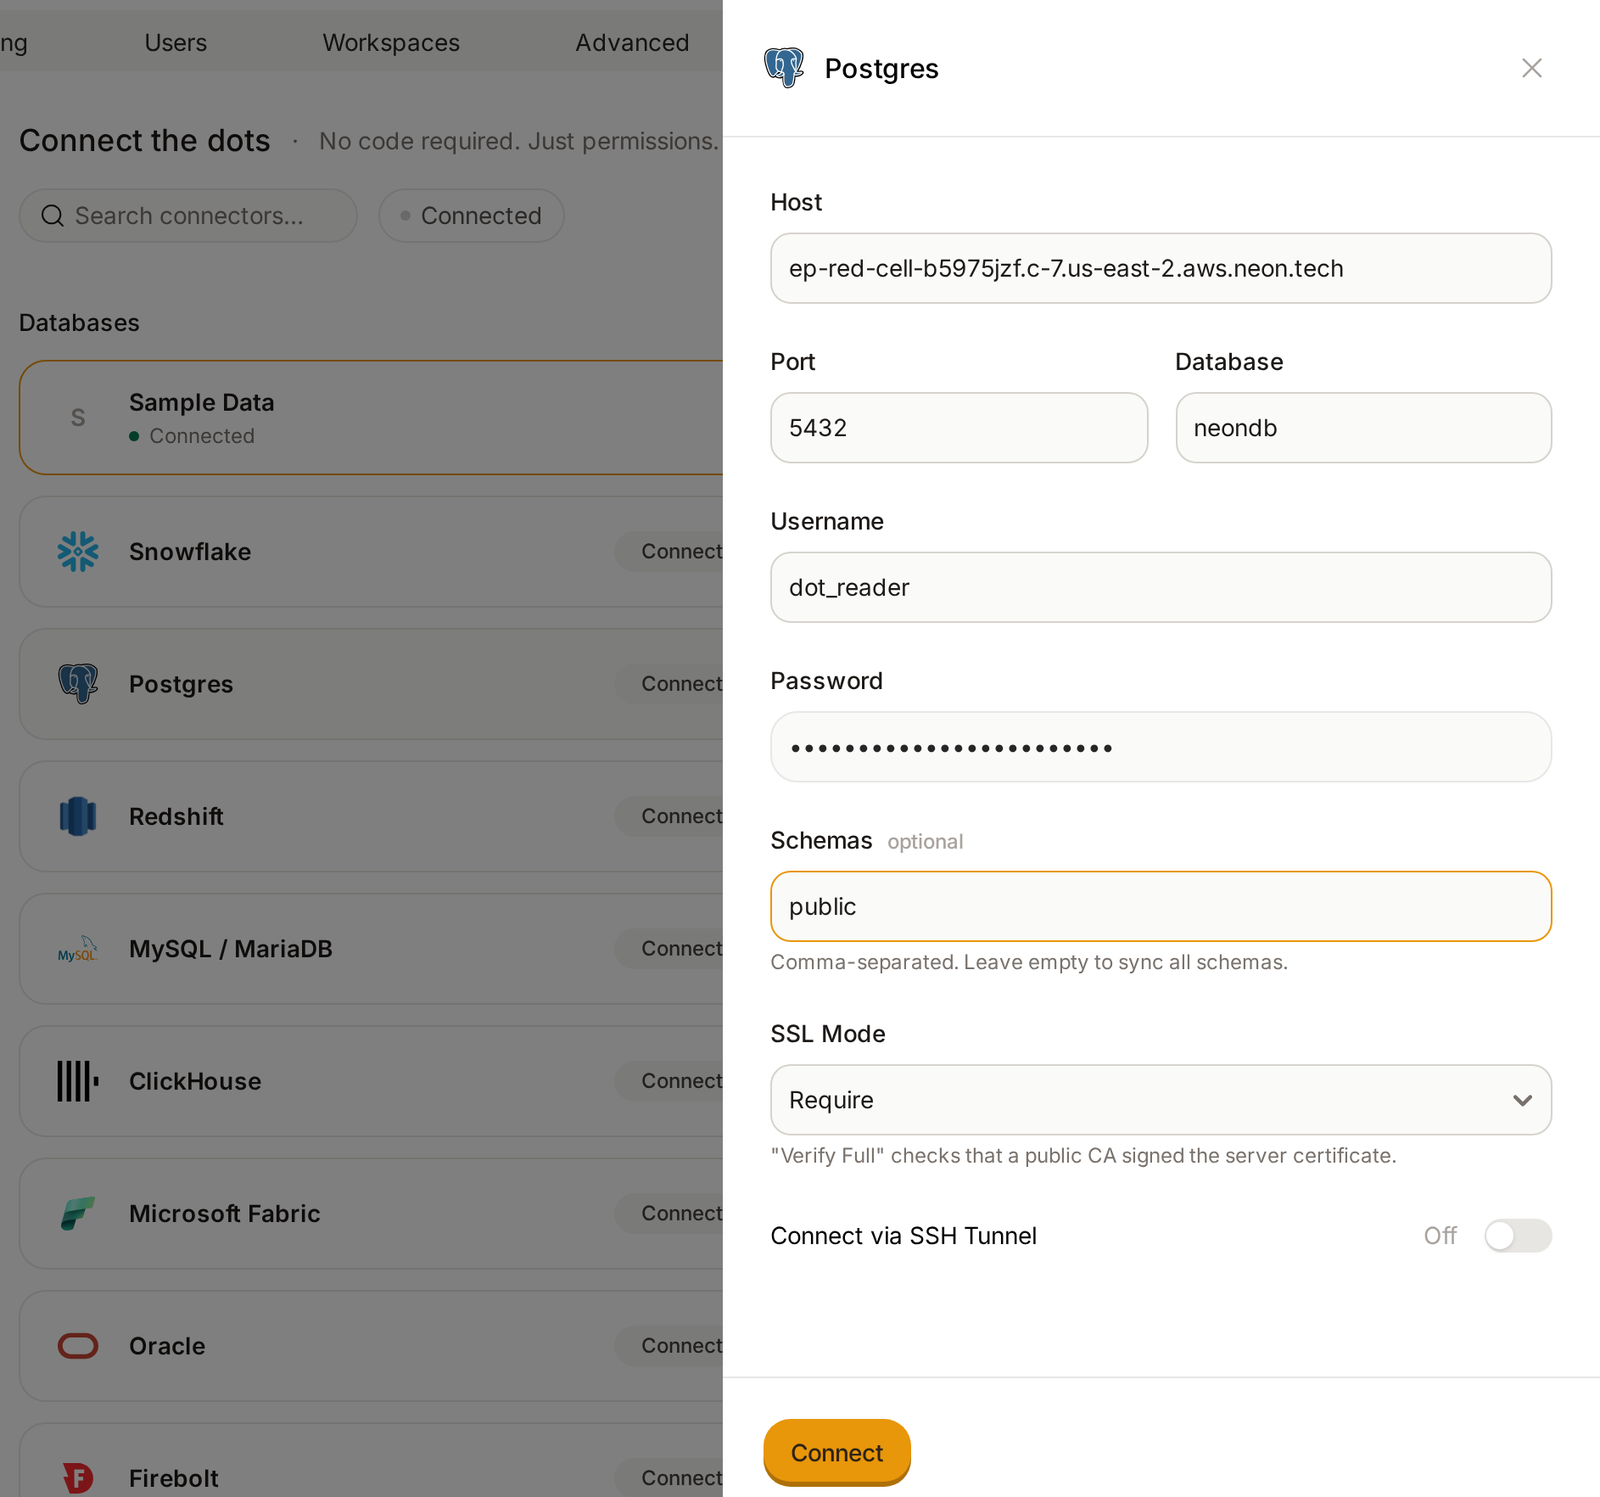
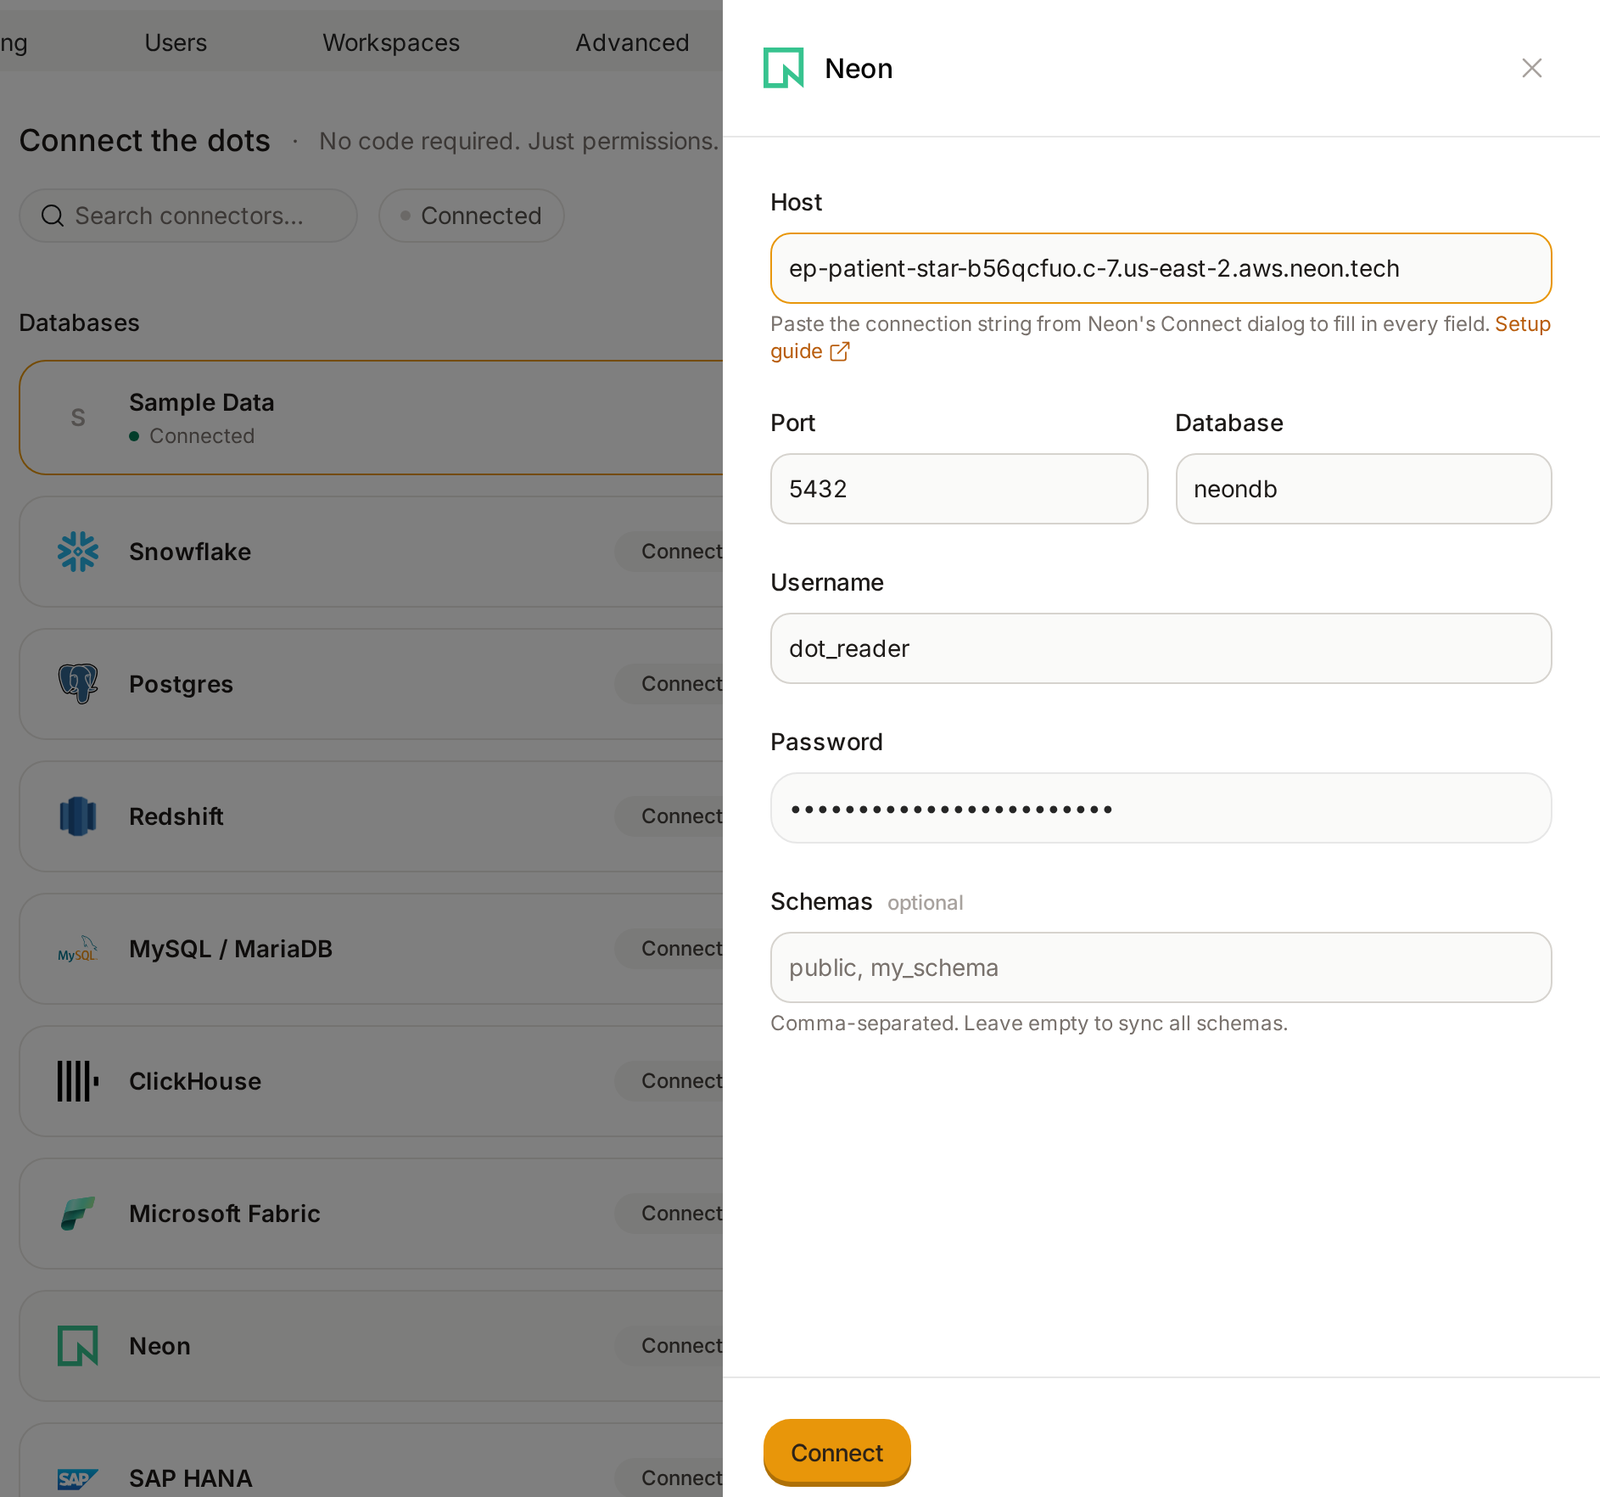
docs: connect Dot through its Neon connection
Dot now has a Neon connection: paste the connection string from
Neon's Connect dialog, pooled or direct, and it fills in the form and
connects to the direct host. Drop the step that turned off connection
pooling, describe the paste, and link the Neon page in Dot's docs.
Retake the connection and Model screenshots, and say which tables Dot
turns on after the first sync.

diff --git a/content/docs/guides/dot.md b/content/docs/guides/dot.md
@@ -5,9 +5,9 @@ summary: >-
   Dot is an AI data analyst that connects to a Lakebase Postgres database and
   answers plain-English questions with SQL-backed tables and charts in Slack,
   Microsoft Teams, or the Dot web app. Use this guide to create a read-only
-  Postgres role for Dot, connect it over a direct (unpooled) connection with
-  the host and database from the Neon Console, choose the tables Dot uses, and
-  add table and column comments that help Dot write accurate queries.
+  Postgres role for Dot, paste your Neon connection string into Dot's Neon
+  connection, choose the tables Dot uses, and add table and column comments
+  that help Dot write accurate queries.
 enableTableOfContents: true
 ---
 
@@ -36,32 +36,27 @@ The password must have at least 60 bits of entropy. See [Manage roles with SQL](
 
 ## Connect Neon to Dot
 
-1. **Get your connection details**
+1. **Copy your connection string**
 
-   In the Neon Console, click **Connect** on your project dashboard, select your branch and database, and turn off **Connection pooling**. Dot needs a direct connection, because it sets a query timeout when it connects and [pooled connections](/docs/connect/connection-pooling) don't accept that setting. The connection string looks similar to the following:
+   In the Neon Console, click **Connect** on your project dashboard. Select your branch, your database, and the `dot_reader` role, then copy the connection string. Pooled and direct connection strings both work. The connection string looks similar to the following:
 
    ```text shouldWrap
-   postgresql://alex:AbC123dEf@ep-cool-darkness-123456.us-east-2.aws.neon.tech/dbname?sslmode=require&channel_binding=require
+   postgresql://dot_reader:AbC123dEf@ep-cool-darkness-123456-pooler.us-east-2.aws.neon.tech/dbname?sslmode=require&channel_binding=require
    ```
 
-   Dot needs the hostname, which is the part between `@` and `/`, and the database name.
+2. **Open the Neon connection in Dot**
 
-2. **Open the Postgres connection in Dot**
-
-   In Dot, go to **Settings** > **Connections** and click **Postgres**.
+   In Dot, go to **Settings** > **Connections** and click **Neon**.
 
    ![Dot connections page](/docs/guides/dot_connect_1.png)
 
-3. **Enter the connection details**
-   - **Host**: the hostname, for example `ep-cool-darkness-123456.us-east-2.aws.neon.tech`
-   - **Port**: `5432`
-   - **Database**: your database name, for example `dbname`
-   - **Username**: `dot_reader`
-   - **Password**: the password you set for `dot_reader`
-   - **Schemas**: optional. List the schemas Dot should sync, for example `public`. Leave it empty to sync every schema the role can read.
-   - **SSL Mode**: keep the default, **Require**
+3. **Paste the connection string**
+
+   Paste the connection string into **Host**. Dot fills in the host, port, database, username, and password. **Schemas** is optional: list the schemas Dot should sync, for example `public`, or leave it empty to sync every schema the role can read.
 
    ![Neon connection details in Dot](/docs/guides/dot_connect_2.png)
+
+   Dot always uses SSL mode `require`. It also removes `-pooler` from a pooled hostname and connects to the direct host, because it sets a time limit on each query and [Neon's connection pooler](/docs/connect/connection-pooling) doesn't accept that limit as a startup setting.
 
 4. **Connect**
 
@@ -73,7 +68,7 @@ If you restrict access with [IP Allow](/docs/introduction/ip-allow), add Dot's I
 
 ## Choose the tables Dot uses
 
-After the first sync, open **Model** in Dot. Under **Data Sources**, turn on the tables Dot should use for answers. On a larger database, Dot starts with only a few tables, so check that the ones your team asks about are on.
+After the first sync, open **Model** in Dot. Under **Data Sources**, turn on the tables Dot should use for answers. Dot answers only from tables that are on. If Neon is the first database your team connects to Dot, Dot turns on up to 10 tables that look most useful and lists them at the end of the sync log. Otherwise, new tables start off.
 
 ![Choosing tables in Dot](/docs/guides/dot_model.png)
 
@@ -105,6 +100,6 @@ Dot picks up new comments the next time it syncs the connection.
 ## What's next?
 
 - Add Dot to [Slack](https://docs.getdot.ai/integrations/slack-and-teams/slack) or [Microsoft Teams](https://docs.getdot.ai/integrations/slack-and-teams/microsoft-teams) so your team can ask questions where they already work.
-- Learn more about the [Postgres connection in Dot](https://docs.getdot.ai/integrations/databases/postgres).
+- Learn more about the [Neon connection in Dot](https://docs.getdot.ai/integrations/databases/neon).
 
 <NeedHelp/>
